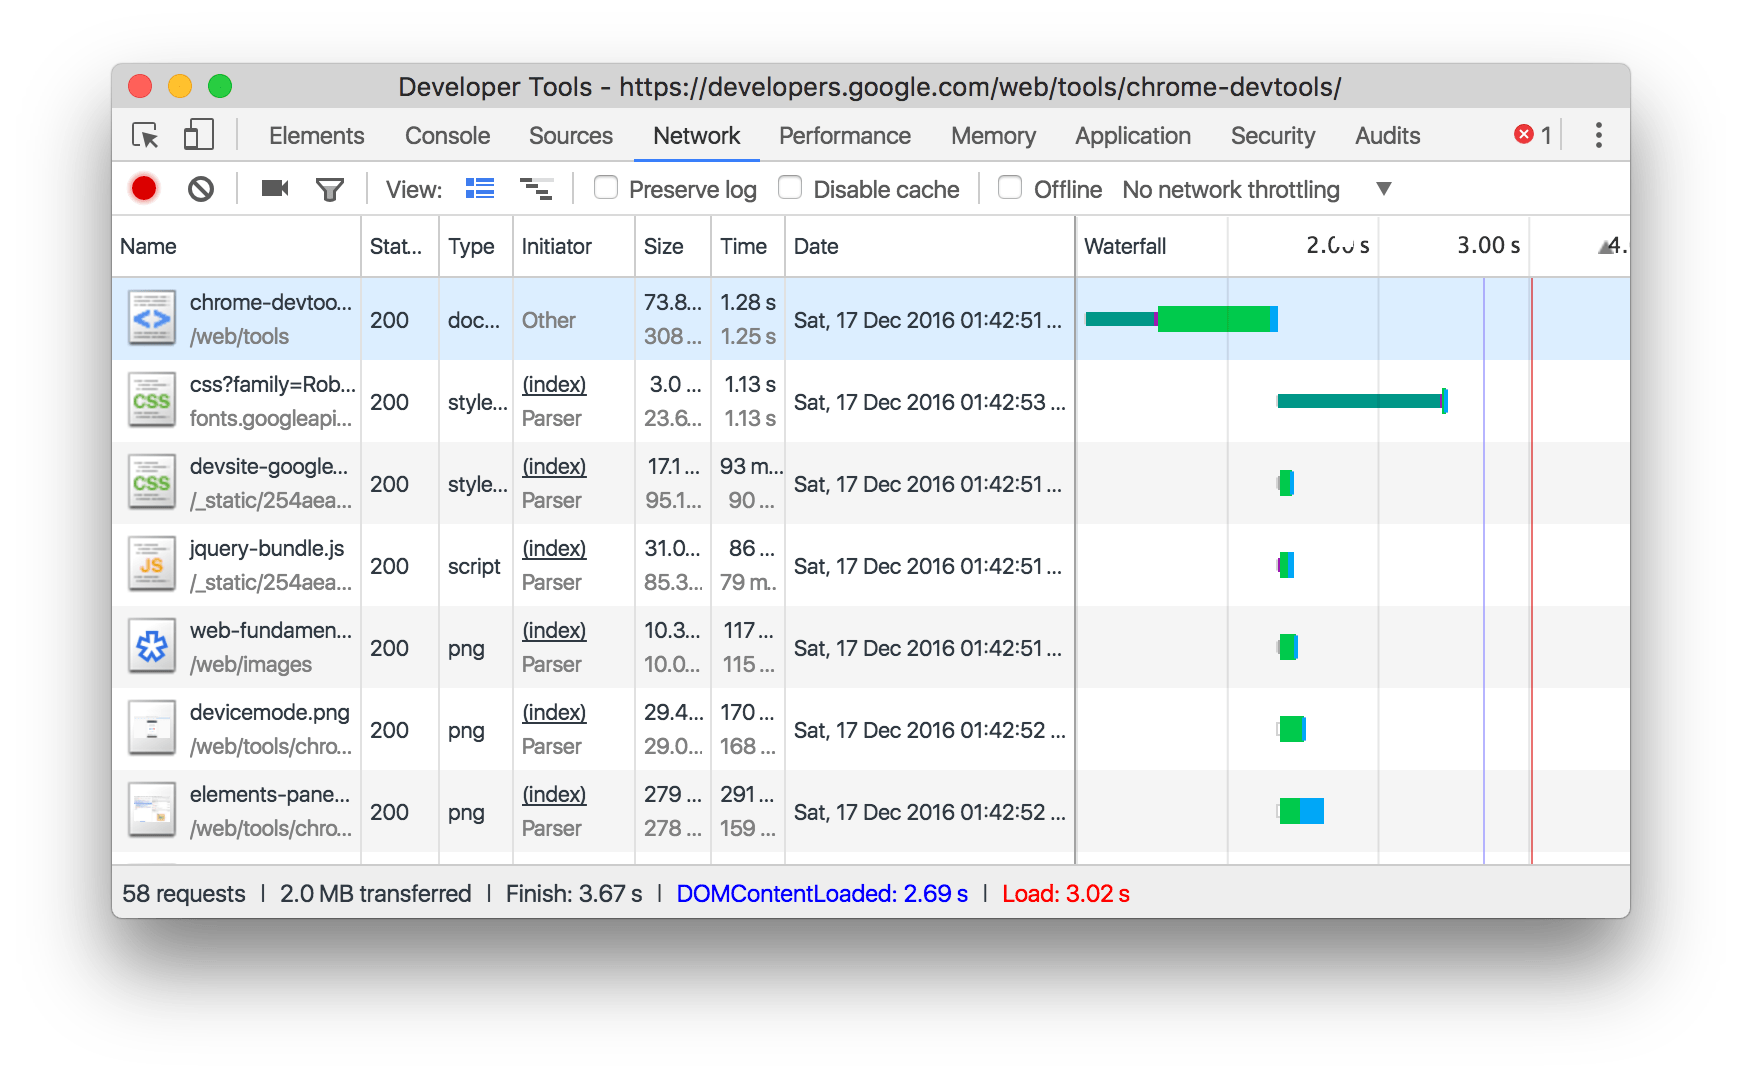
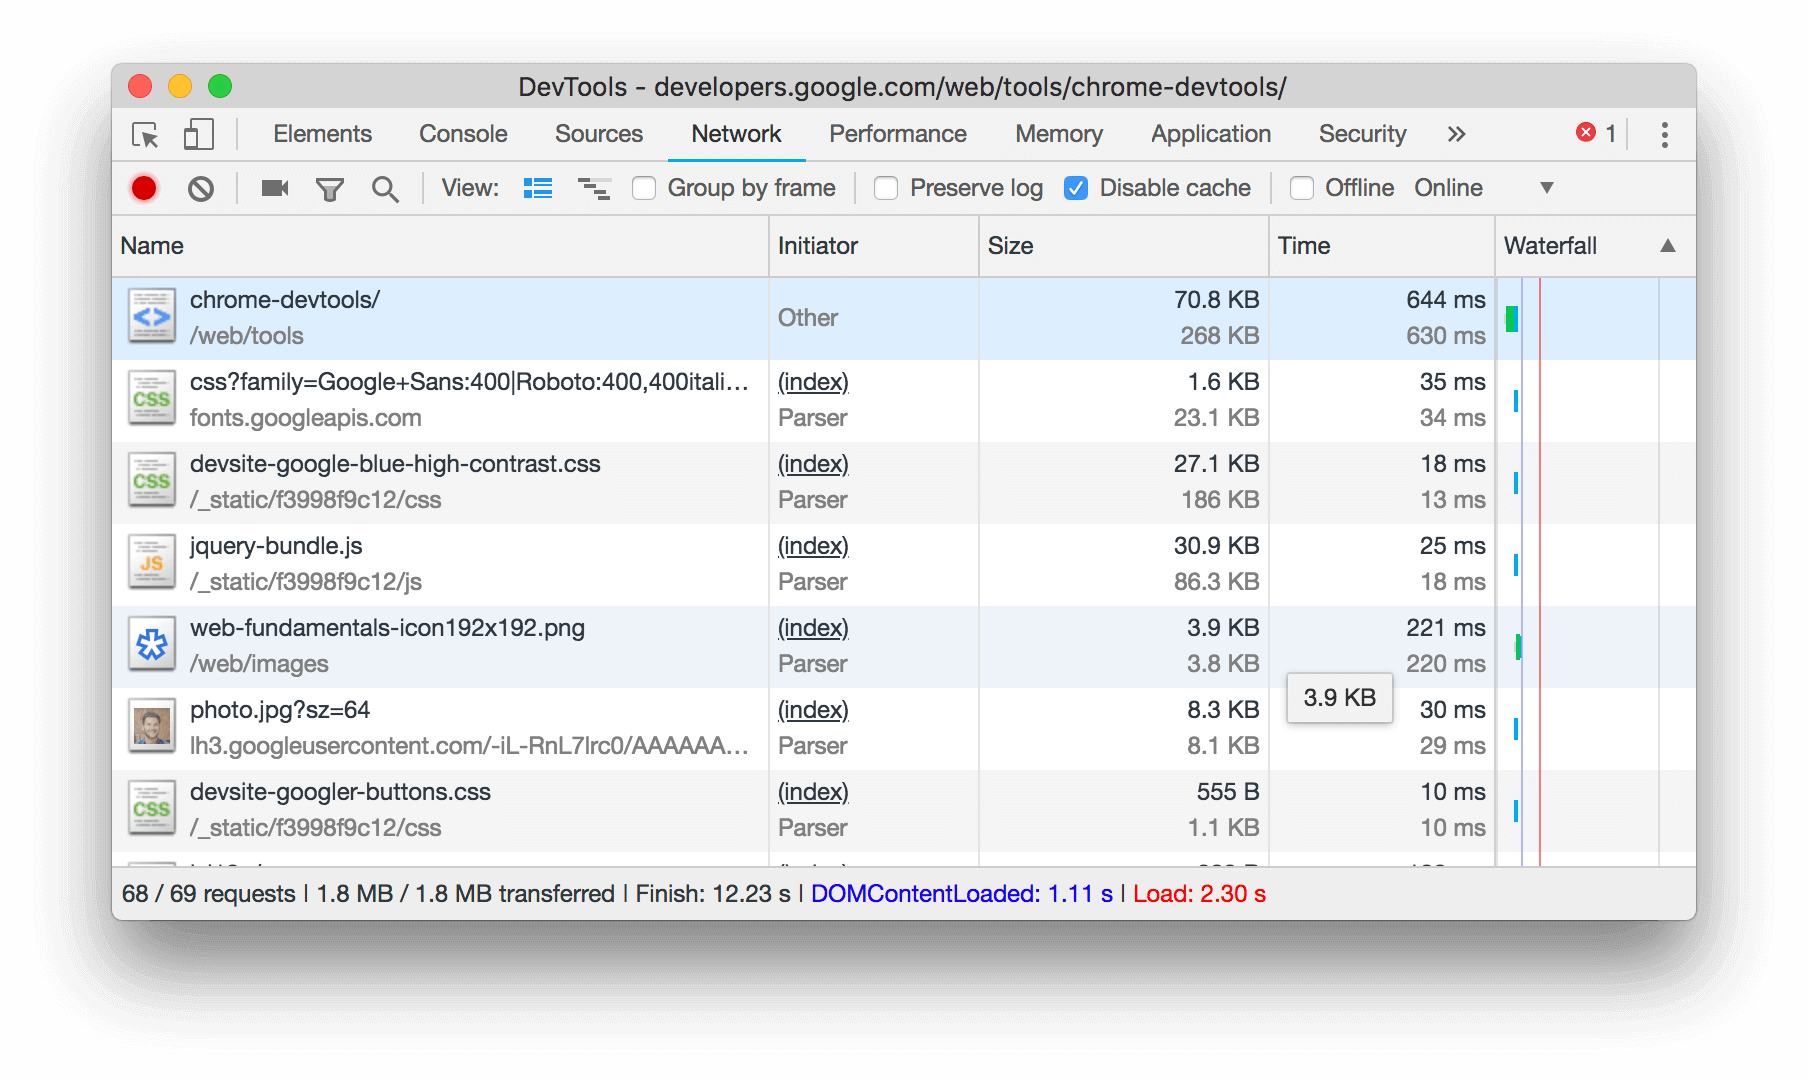
add content

diff --git a/src/content/en/tools/chrome-devtools/network-performance/reference.md b/src/content/en/tools/chrome-devtools/network-performance/reference.md
@@ -762,10 +762,18 @@ column to view the stack trace leading up to the request.
 ### View the uncompressed size of a resouce {: #uncompressed }
 
 Click **Use Large Request Rows** ![Use Large Request
-Rows](imgs/use-large-request-rows.png){:.inline-icon} and then look at the
+Rows](imgs/large-resource-rows-button.png){:.inline-icon} and then look at the
 bottom value of the **Size** column.
 
-
+<figure>
+  <img src="imgs/large-request-rows.png"
+       alt="An example of uncompressed resources.">
+  <figcaption>
+    <b>Figure 33</b>. The compressed size of the <code>jquery-bundle.js</code> file
+    that was sent over the network was <code>30.9 KB</code>, whereas the uncompressed size was
+    <code>86.3 KB</code>
+  </figcaption>
+</figure>
 
 ## Export requests data
 
@@ -780,7 +788,7 @@ To save a request in the HAR format with content:
   <img src="imgs/save-as-har.png"
        alt="Selecting Save As HAR With Content.">
   <figcaption>
-    <b>Figure 33</b>. Selecting Save As HAR With Content
+    <b>Figure 34</b>. Selecting Save As HAR With Content
   </figcaption>
 </figure>
 
@@ -798,7 +806,7 @@ hover over **Copy**, and select one of the following options:
 <figure>
   <img src="imgs/copy.png" alt="Selecting Copy Response.">
   <figcaption>
-    <b>Figure 34</b>. Selecting Copy Response
+    <b>Figure 35</b>. Selecting Copy Response
   </figcaption>
 </figure>
 
@@ -815,7 +823,7 @@ Click **Filter** ![Filter][filter]{: .devtools-inline } to hide it.
 <figure>
   <img src="imgs/hide-filters.svg" alt="The Hide Filters button">
   <figcaption>
-    <b>Figure 35</b>. Hide Filters, outlined in blue
+    <b>Figure 36</b>. Hide Filters, outlined in blue
   </figcaption>
 </figure>
 
@@ -826,13 +834,13 @@ Click **Filter** ![Filter][filter]{: .devtools-inline } to hide it.
 Use large rows when you want more whitespace in your network
 requests table. Some columns also provide a little more information
 when using large rows. For example, the bottom value of the **Size**
-is the uncompressed size of a request.
+column is the uncompressed size of a request.
 
 <figure>
   <img src="imgs/large-request-rows.png"
        alt="An example of large request rows in the Requests pane.">
   <figcaption>
-    <b>Figure 36</b>. An example of large request rows in the Requests pane
+    <b>Figure 37</b>. An example of large request rows in the Requests pane
   </figcaption>
 </figure>
 
@@ -844,7 +852,7 @@ rows][large]{:.devtools-inline} to enable large rows.
 <figure>
   <img src="imgs/large-request-rows.svg" alt="The Large Request Rows button">
   <figcaption>
-    <b>Figure 37</b>. Large Request Rows, outlined in blue
+    <b>Figure 38</b>. Large Request Rows, outlined in blue
   </figcaption>
 </figure>
 
@@ -856,7 +864,7 @@ Click **Hide overview** ![Hide overview][hide]{:.devtools-inline} to hide it.
 <figure>
   <img src="imgs/hide-overview.svg" alt="The Hide Overview button">
   <figcaption>
-    <b>Figure 38</b>. Hide Overview, outlined in blue
+    <b>Figure 39</b>. Hide Overview, outlined in blue
   </figcaption>
 </figure>
 
